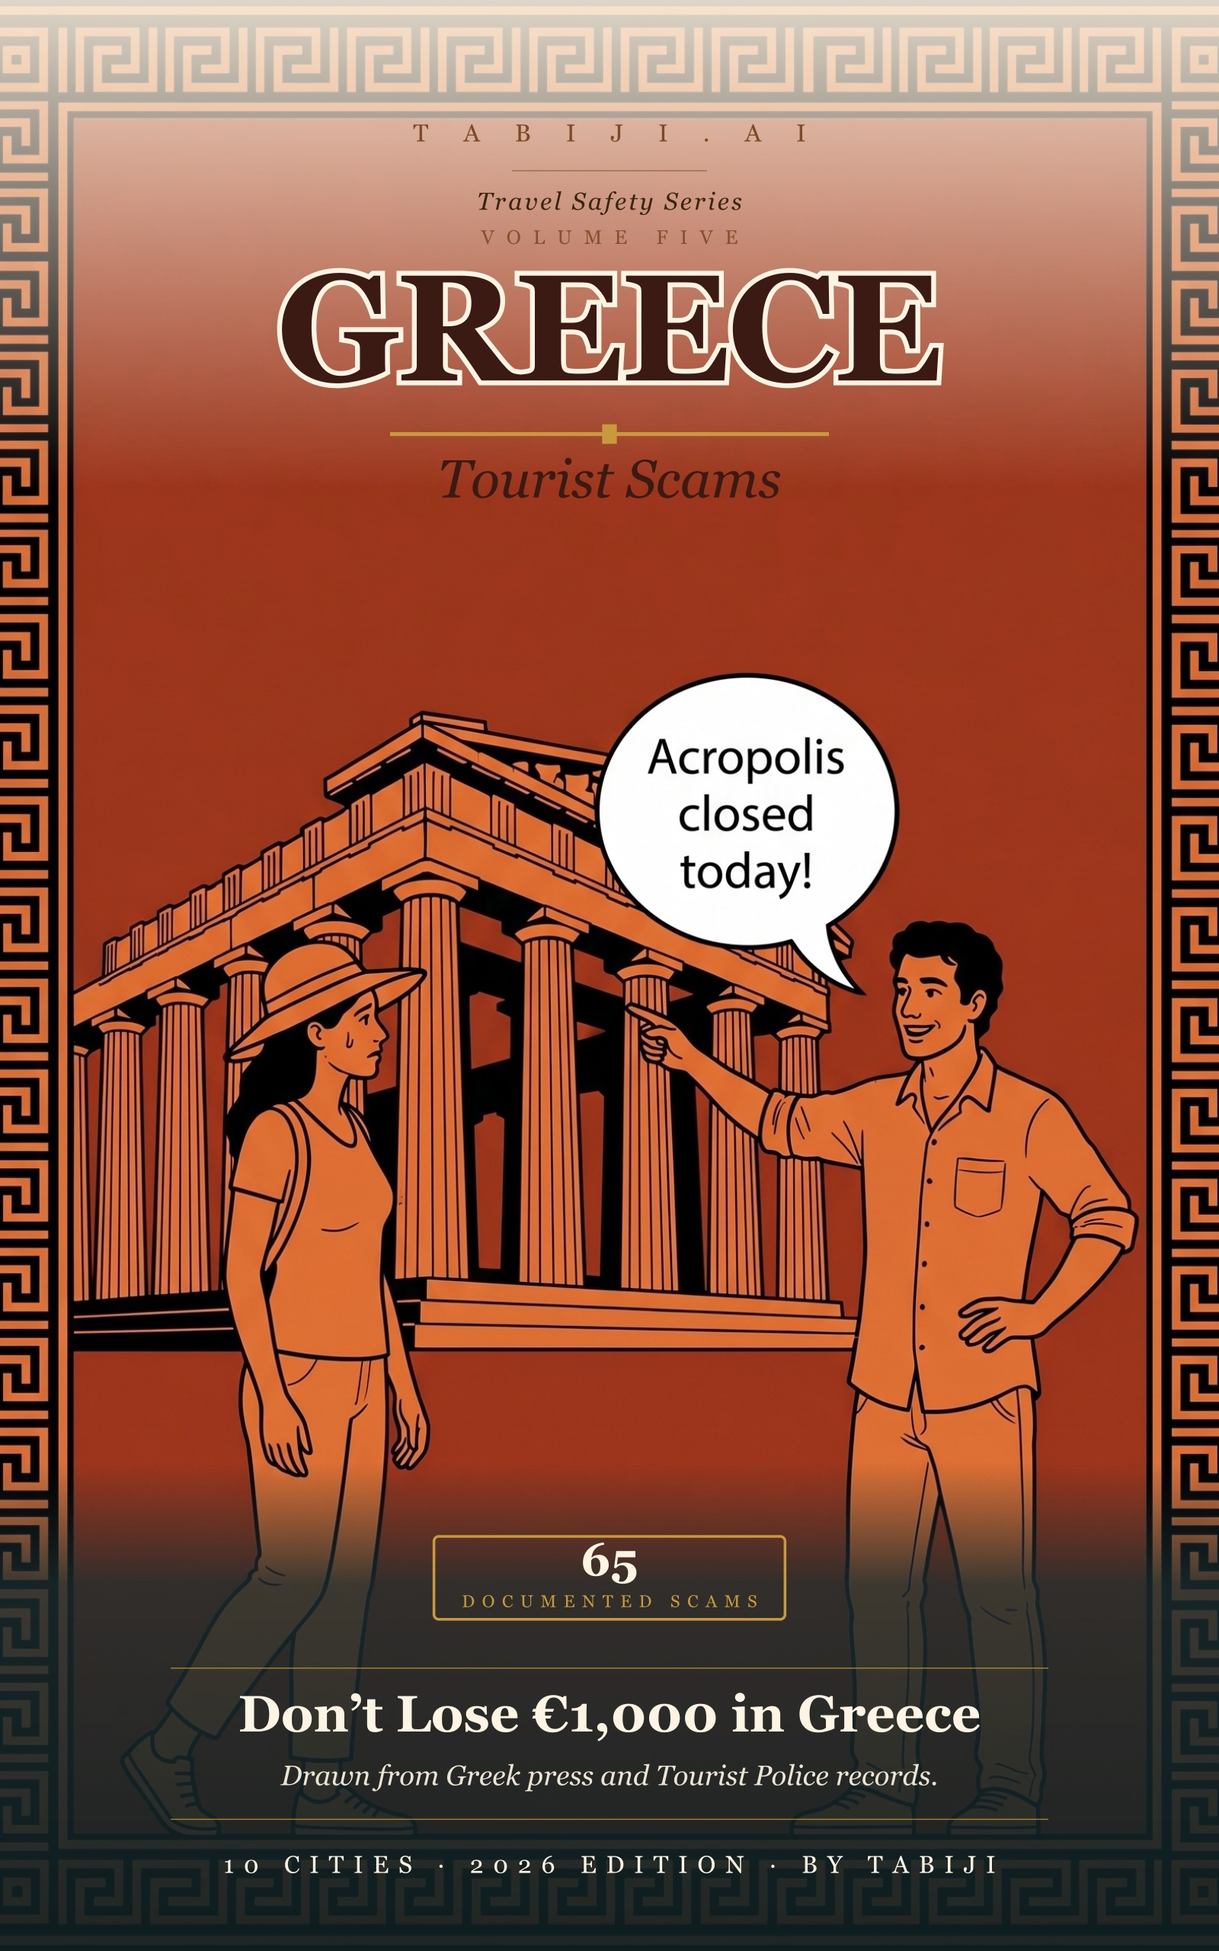
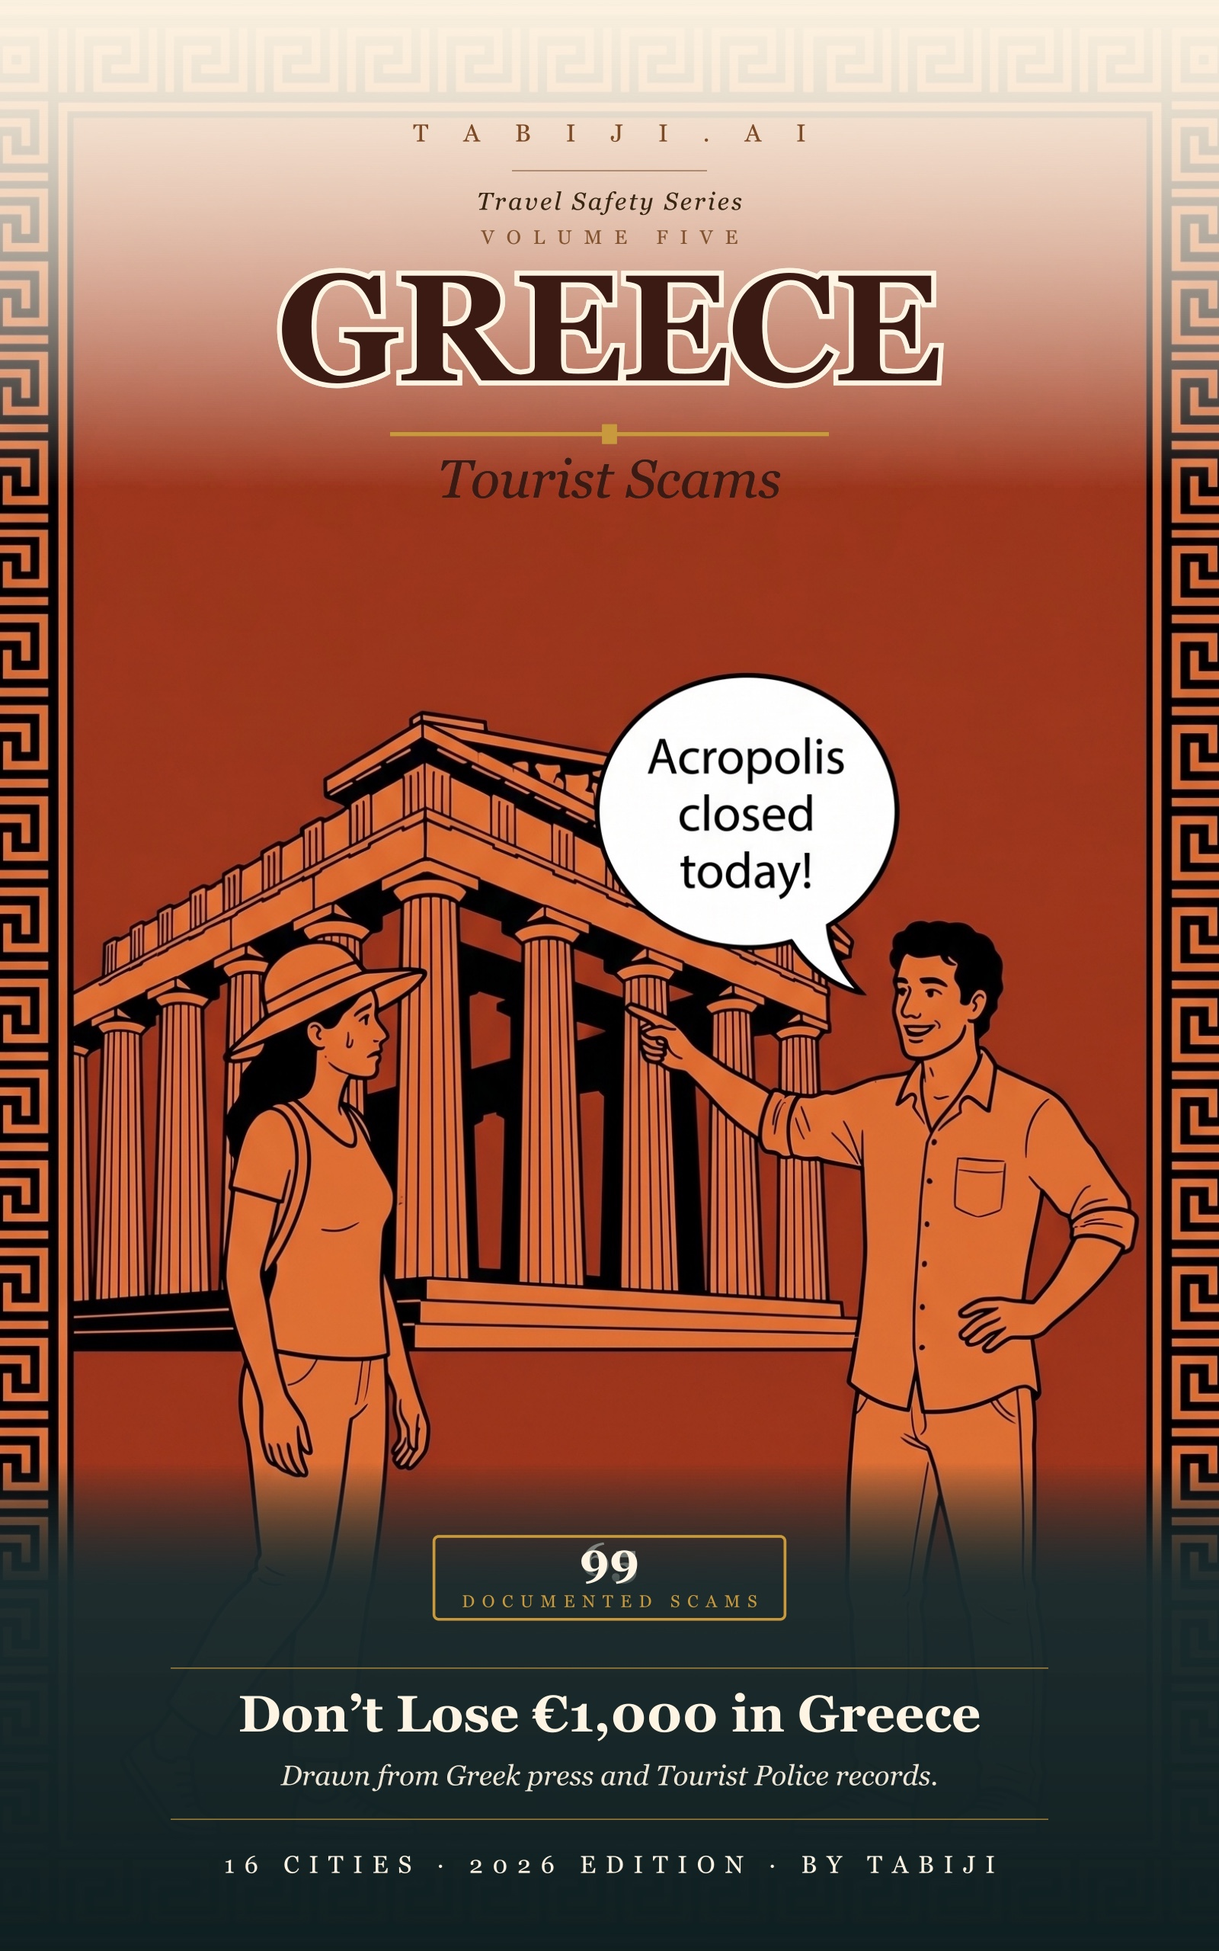
book-greece: rebuild for v2 expansion — 16 cities / 99 scams / 34 new comics
Greece book v2 reflects the full expanded coverage: the original 10 cities
plus the 6 added in this session (Meteora, Delphi, Nafplio, Kos, Zakynthos,
Milos). Now the largest volume in the Tabiji Travel Safety Series.

Content:
- 99 scams documented (was 65) across 16 destinations
- 34 new red-figure pottery comics (Wavespeed/Nano Banana Pro) for the
  6 new cities, generated using the locked Greece style block + canonical
  cast (Margie/Priya/Harry/Marcus). Uploaded to R2 + checked in for the book.
- 6 new chapter-opener city illustrations (mid-century travel-poster style)
- 6 hand-written city intros (mainland archaeology + Cyclades + Dodecanese
  + Ionian) — Meteora day-trip dynamics, Delphi oracle archaeology,
  Nafplio Argolic-base, Kos UK-package strip, Zakynthos Laganas-strip,
  Milos Sarakiniko-driven mainstream Cyclades

Build chain:
- book-greece/config.yaml: 10 → 16 cities, ordered by region (mainland
  archaeology → Cyclades → Northern → Dodecanese → Ionian → Crete)
- book-greece/build.py: CITY_ALT_TEXT extended for 6 new chapter openers
- book-greece/assets/svg/front.svg: cover updated 65 → 99, 10 CITIES → 16 CITIES
- book-greece/assets/cover.jpg: re-rendered from updated SVG
- book-greece/amazon-listing.md: subtitle, description, and 16-city
  enumeration updated
- book-greece/scripts/gen_city_illustrations.py: 6 new city prompts added

Verified output (book-greece/build/greece-scams.epub):
- 99 scams · 57,744 words · 0 TODOs · 95 MB EPUB
[…]

Changed region(s): [[0.0, 0.0, 1.0, 0.2188], [0.0, 0.75, 1.0, 0.875]]

diff --git a/book-greece/scripts/gen_city_illustrations.py b/book-greece/scripts/gen_city_illustrations.py
@@ -125,6 +125,48 @@ CITIES: list[tuple[str, str, str]] = [
         "visible through the ancient doorway, warm golden-hour light.",
         "m",
     ),
+    (
+        "meteora",
+        "The clifftop monasteries of Meteora balanced on dramatic sandstone pinnacles "
+        "at sunrise, deep mist drifting through the valley below, soft warm light on "
+        "the rock spires, the Pindus mountains in the distance.",
+        "f",
+    ),
+    (
+        "delphi",
+        "The Tholos rotunda of Athena Pronaia at Delphi on the slopes of Mount Parnassus "
+        "at golden hour, three reconstructed Doric columns of the circular temple, the "
+        "Pleistos river valley sweeping below, warm honey light on ancient marble.",
+        "m",
+    ),
+    (
+        "nafplio",
+        "The Bourtzi sea-fortress in the Nafplio harbor at dusk, the small Venetian "
+        "island fortress glowing warm against a deep teal Argolic Gulf, the "
+        "Palamidi castle silhouetted on the cliff above the old town.",
+        "f",
+    ),
+    (
+        "kos",
+        "The ancient Asclepieion healing sanctuary on a hillside above Kos, terraced "
+        "ruins of marble columns and stone steps catching golden afternoon light, "
+        "olive groves below, the Aegean Sea and the coast of Bodrum in the distance.",
+        "m",
+    ),
+    (
+        "zakynthos",
+        "Navagio Shipwreck Beach in its cliff-ringed cove at golden hour, towering "
+        "white limestone cliffs framing the curve of bright turquoise water, the "
+        "rusted shipwreck silhouetted on the sand, deep blue Ionian Sea beyond.",
+        "f",
+    ),
+    (
+        "milos",
+        "The white-rock lunar landscape of Sarakiniko on Milos at sunset, smooth "
+        "sculptural volcanic-tuff formations glowing soft pink and gold, the deep "
+        "blue Aegean Sea contrasting with bone-white rock, dramatic Cycladic light.",
+        "m",
+    ),
 ]
 
 

diff --git a/book-greece/build.py b/book-greece/build.py
@@ -47,6 +47,12 @@ CITY_ALT_TEXT: dict[str, str] = {
     "chania": "Chania — the Venetian Lighthouse and Old Harbour at dusk",
     "paros": "Paros — whitewashed houses of Naoussa fishing village at sunset",
     "naxos": "Naxos — the Portara gateway to the Temple of Apollo at sunset",
+    "meteora": "Meteora — clifftop monasteries balanced on sandstone pinnacles at sunrise",
+    "delphi": "Delphi — Tholos rotunda of Athena Pronaia on Mount Parnassus",
+    "nafplio": "Nafplio — the Bourtzi sea-fortress and the harbor below Palamidi",
+    "kos": "Kos — the Asclepieion ancient healing sanctuary on a hillside",
+    "zakynthos": "Zakynthos — Navagio Shipwreck Beach in the cliff-ringed cove",
+    "milos": "Milos — the white-rock lunar landscape of Sarakiniko at sunset",
 }
 
 

diff --git a/book-greece/amazon-listing.md b/book-greece/amazon-listing.md
@@ -15,7 +15,7 @@ Copy-paste directly into KDP.
 
 > **Title:** Greece Tourist Scams 2026
 >
-> **Subtitle:** 65 Real Scams Across Athens, Santorini, Mykonos & 7 More Cities — Drawn from Greek News Reports and Tourist Police Records
+> **Subtitle:** 99 Real Scams Across Athens, Santorini, Mykonos, Meteora & 12 More Cities — Drawn from Greek News Reports and Tourist Police Records
 
 **Title field:** 27 characters. **Subtitle field:** 117 characters. Combined: 146 — under the ~200-char mobile truncation point.
 
@@ -25,7 +25,7 @@ Indexed phrases this locks in for organic search:
 - *athens santorini mykonos* (three flagship destinations in subtitle)
 - *greek phrases*
 
-**Cover status:** `book-greece/assets/svg/front.svg` composites a full-bleed red-figure pottery style background with "GREECE · Tourist Scams" overlay and "10 CITIES · 65 DOCUMENTED SCAMS" on the hook. The pottery-art style matches the four-panel comics inside every scam entry.
+**Cover status:** `book-greece/assets/svg/front.svg` composites a full-bleed red-figure pottery style background with "GREECE · Tourist Scams" overlay and "16 CITIES · 99 DOCUMENTED SCAMS" on the hook. The pottery-art style matches the four-panel comics inside every scam entry.
 
 ---
 
@@ -75,7 +75,7 @@ Character count below: **≈ 3,850** — safely under the 4,000 limit.
 <h4>What's inside this book</h4>
 
 <ul>
-<li><b>65 documented scams</b> across Athens, Santorini, Mykonos, Paros, Naxos, Thessaloniki, Rhodes, Corfu, Heraklion, and Chania — with the exact Greek phrase, said calmly, that ends each one.</li>
+<li><b>99 documented scams</b> across Athens, Delphi, Meteora, Nafplio, Santorini, Mykonos, Paros, Naxos, Milos, Thessaloniki, Rhodes, Kos, Corfu, Zakynthos, Heraklion, and Chania — with the exact Greek phrase, said calmly, that ends each one.</li>
 <li><b>6 universal scam patterns</b> so you can spot the hundreds of variations still being invented.</li>
 <li><b>A red-figure pottery comic for every scam</b> — see the script play out frame-by-frame before you're in it, rendered in ancient Greek vase-painting style.</li>
 <li><b>A print-ready Greek phrase card</b> — English, Greek script, romanized Greek, and simple phonetic pronunciation, with the one phrase (<i>Óchi, efcharistó</i>) that ends most tout interactions instantly.</li>
@@ -168,7 +168,7 @@ For BISAC (used outside KDP):
 | Matchbook | **No** |
 | Kindle Unlimited / KDP Select | **Yes — enrolled for 90 days** |
 
-**KU economics note:** Greece volume is ~245 Kindle pages (larger than Thailand — 65 scams with 65 embedded red-figure pottery comics). A completed KU read-through should net roughly $1.00 at current per-page rates. Greece's niche ("avoid Mykonos restaurant scam," "Santorini taxi overcharge") has high search volume on Kindle, so keyword-driven organic discovery is expected to drive most sales.
+**KU economics note:** Greece volume is ~360 Kindle pages (the largest in the series — 99 scams with 99 embedded red-figure pottery comics, 16 chapters). A completed KU read-through should net roughly $1.40 at current per-page rates. Greece's niche ("avoid Mykonos restaurant scam," "Santorini taxi overcharge," "Meteora day-trip scam") has high search volume on Kindle, so keyword-driven organic discovery is expected to drive most sales.
 
 ---
 

diff --git a/book-greece/manuscript/cities-milos-intro.md b/book-greece/manuscript/cities-milos-intro.md
@@ -1,0 +1,3 @@
+Milos is a small Cycladic island — about 5,400 residents — that became mainstream around 2020, when Sarakiniko's white-rock "lunar landscape" went viral on Instagram. Three sites carry the visitor flow: Sarakiniko on the north coast, the Kleftiko sea caves at the southwest tip (reachable only by boat), and the photogenic Plaka old town above Adamas port. The Hellenic Seaways high-speed ferry from Piraeus brings most visitors in 3 hours; cruise tenders from Adamas pier add a second arrival flow. The scam economy is shaped by the island's small size and even smaller taxi fleet — about seven licensed taxis serve thousands of summer ferry arrivals on peak days.
+
+The risk radiates from three corridors. At Adamas port, the taxi cartel runs supply-driven price inflation on Pollonia and Sarakiniko transfers — the seven-taxi fleet quotes €40–€60 for runs the meter would price at €15–€25, and refuses to operate the meter when demand is high. The Kleftiko boat-tour market is the second concentration: catamaran operators charge €120–€180 for shared day cruises that overcrowd to the legal passenger limit, with "sell-out pressure" at Adamas tour desks pushing same-day bookings at peak prices. ATV and scooter rentals at Adamas run a damage-deposit cycle on the island's narrow unpaved roads to remote beaches (Tsigrado, Firiplaka, Provatas) where minor cosmetic damage is nearly inevitable. Lower-impact but common: Sarakiniko parking-lot cash solicitation by unlicensed "attendants," and Plaka old-town tourist-menu cover-charge padding at the sunset-view restaurants. A safe default: take the Milos Buses (€2 per disembarkation, milosbuses.com) for inter-village transport, book Kleftiko boat tours direct from named operators (Polco Sailing, Naya, Perseas, Volcano, Oneiro) with their published per-day price list, and rent only a small car (not an ATV) if independent transport is needed. Save Tourist Police **171** and the Milos office **+30 22870 23360**.

diff --git a/book-greece/manuscript/cities-zakynthos-intro.md b/book-greece/manuscript/cities-zakynthos-intro.md
@@ -1,0 +1,3 @@
+Zakynthos — also called Zante in UK package marketing — is the southernmost of the Ionian islands, famous for Navagio Shipwreck Beach, the loggerhead-turtle nesting beaches around Laganas Bay, and the Blue Caves at Cape Skinari. Heavy UK package-tourism, German + Italian secondary; Athens-area domestic visitors fill the shoulder season. The scam economy here is documented in detail by the British tabloid press — the Sun, the Mirror, the Daily Mail, and the Metro have all published recurring summer exposés naming specific Laganas-strip clip-joints by name. The Coroner's Office in the UK tracks Zakynthos quad and ATV deaths separately because the rate has been distinctively high for a decade.
+
+The risk radiates from three corridors. The Laganas resort strip runs the most aggressive nightlife scams in Greece outside the Athens-Plaka clip-joints — spiked-cocktail incidents, bootleg-vodka substitution at "VIP table" minimum-consumption bars, and the bracelet-hawker pattern on the main strip where €1 wristbands turn into €30 bills with crew enforcement. Across Laganas, Argassi, and Tsilivi resort strips, scooter and quad rental shops run an aggressive damage-deposit cycle — and unlike Mykonos or Kos where the deposit is the financial damage, here the physical-injury rate is genuinely elevated. The Marathonisi (Turtle Island) boat-tour operators routinely overcrowd vessels and run "guaranteed turtle" markups on what is supposed to be a protected-species observation. A safe default: stick to named, posted-price venues in Laganas (the strip is small enough to walk in twenty minutes), refuse unrequested drinks and never share a poured cocktail you didn't watch mixed, decline all quad and ATV rentals (rent a small car if you must), and verify any Marathonisi boat tour against the Zakynthos Marine Park's published licensed-operator list. Save Tourist Police **171** and the Zakynthos office **+30 26950 27367**.

diff --git a/book-greece/manuscript/cities-kos-intro.md b/book-greece/manuscript/cities-kos-intro.md
@@ -1,0 +1,3 @@
+Kos is the third-largest Dodecanese island, immediately west of Bodrum, Turkey, and one of the heaviest UK + German package-tourism receivers in Greece. Three resort strips dominate the foreign visitor map: Kardamena on the south coast (the British party-tourism epicenter), Tigaki on the north coast, and Mastichari on the northwest where the daily Bodrum ferry departs. Kos Town itself — the old harbor and the Asclepieion archaeological site — is the cultural core. The scam economy is a hybrid of Mediterranean clip-joint patterns and the kind of UK-package-strip exploitation that the Daily Mail and the Mirror have flagged in recurring summer exposés.
+
+The risk radiates from four corridors. At Kos Airport (KGS), the taxi cartel runs per-person flat-rate quotes that triple the legal metered fare for "hotel booking" transfers — the same ride at the meter would cost a quarter as much. On the Kardamena resort strip, scooter and ATV rental shops run a damage-deposit cycle: €200–€400 cash deposits "held" against pre-existing scratches, with returns "discovered" on the lower bumper or under the seat. The Mastichari–Bodrum day-trip ferry has its own variant — touts at the port confuse single-day visitors about Turkish visa requirements, then upsell €60+ "with-visa-assistance" packages over the standard €40 walk-on fare. In Kos Town's old quarter, tourist-menu cover-charge padding at the harbor cafés layers €10–€20 of unrequested bread, water, and "cutlery" onto bills. A safe default: book Kos Airport transfers through your hotel with a written quote, rent only from major airport brands (Avis, Europcar, Hertz, Sixt), confirm the Bodrum ferry visa rules at the official tourist information office before paying any "assistance" markup, and refuse all unrequested cover items at restaurants — Greek consumer law bans them. Save Tourist Police **171** and the Kos office **+30 22420 22444**.

diff --git a/book-greece/manuscript/cities-meteora-intro.md b/book-greece/manuscript/cities-meteora-intro.md
@@ -1,0 +1,3 @@
+Meteora is the cliff-top monastery complex above Kalambaka in central Thessaly — six visitable monasteries balanced on sandstone pinnacles, reached by Greek-Orthodox monks in the fourteenth century and now reached by a steady stream of Athens day-tour buses, rental cars, and KTEL Trikalon coaches. The scam ecosystem is built around two friction points: the Athens-to-Meteora distance (4.5 hours each way by road or KTEL) and the unattended monastery parking lots above Kastraki where rental cars sit for 90 minutes while drivers walk the cliffs. Both attract the same class of opportunist — taxi drivers who tell you your bus left five minutes early and offer to "chase it" for €80 cash, and Athens-area thieves who pop trunks at the Great Meteoron and Varlaam shared lot.
+
+The risk radiates from three corridors. At the Athens end, Larissa Station and Liosion Street tour-bus depots run the missed-bus shakedown and the 14-hour day-trip bait-and-switch — €100 packages that bill themselves as one-day pilgrimages but burn ten of fourteen hours on bus seats and commission rest stops. At the Kalambaka end, the train and bus station forecourts run "private guide" upsells (€60–€90 per person for what the OASTH local bus does for €1.80) and inflated taxi rates from Kalambaka to Kastraki. At the monasteries themselves, the parking-lot break-in is the single most damaging incident — a 2025 traveler thread documented passports and $15,000 in items stolen from a trunk in 40 minutes. A safe default: take the KTEL Trikalon bus from Athens (€32.50 single, €56.50 return), stay overnight in Kalambaka or Kastraki, walk or take the OASTH bus through the monasteries, and carry passports and electronics on your person — never leave anything in the car at any monastery lot, even in the trunk. Save Tourist Police **171** and the Trikala office **+30 24320 78518**.

diff --git a/book-greece/manuscript/cities-delphi-intro.md b/book-greece/manuscript/cities-delphi-intro.md
@@ -1,0 +1,3 @@
+Delphi is the UNESCO oracle of antiquity, perched on the slopes of Mount Parnassus 180 km northwest of Athens. The archaeological site, the museum, and the Tholos at Athena Pronaia draw two distinct visitor flows: KTEL Fokidas bus passengers staying overnight in the village or in Arachova, and Athens-based tour groups doing a fourteen-hour bus-loop day trip. The scam economy targets the second flow with surgical precision — operators bundle the €15.50 KTEL bus seat into €120-plus "guided day tours" that compress three sites into a 90-minute walking loop, with a contracted Arachova lunch stop and a souvenir-shop kickback added on the way back.
+
+The risk radiates from three corridors. At the Liosion Terminal B departure point in Athens, "private transfer" curb dispatchers sell €350-plus rides for what the public bus does for €15.50 single, with the upsell pitch heaviest on travelers heading to early-morning Athens flights after a Delphi day. At the Delphi site forecourt, "official guide" badges materialize at 09:30 most summer mornings — €60–€90 per person for content that hhticket.gr's official audio guide covers for €4. The most damaging single incident is rental-car break-ins at the Delphi site car park and at the Hosios Loukas monastery and Galaxidi-Itea waterfront lay-bys on the way back; thieves work the unattended lots while drivers walk a 90-minute ruins loop. A safe default: take the KTEL Fokidas bus from Athens (€15–€16.50 single per ktelbus.gr), stay one or two nights in Delphi village or Arachova, buy site and museum entry directly at the gate (€12 in summer), and carry passports and prior-trip shopping on your person — never leave anything in the rental car at any sightseeing lay-by. Save Tourist Police **171** and the Delphi office **+30 22650 82222**.

diff --git a/book-greece/manuscript/cities-nafplio-intro.md b/book-greece/manuscript/cities-nafplio-intro.md
@@ -1,0 +1,3 @@
+Nafplio is the first capital of modern Greece — a Venetian-fortified harbor town on the Argolic Gulf, two hours southwest of Athens by KTEL Argolida bus, and the standard base for Mycenae and Epidaurus archaeological day trips. The old town's Plateia Syntagmatos, the Vasileos Konstantinou pedestrian strip, and the Bouboulinas waterfront form the tourist core. The scam economy here is quieter than Athens or Mykonos — but the financial bite per incident is substantial because the targets are well-prepared travelers booking weeks in advance for what they expect to be the safe, gentle, "off-cruise" Greek experience.
+
+The risk radiates from three corridors. At Plateia Syntagmatos, the kiosk-style Euronet ATMs run dynamic-currency-conversion markups at 6–10% above the wholesale euro rate — every other Greek-bank-branded ATM on the same square (Piraeus, Alpha, Eurobank, NBG) charges nothing extra if you select "charged in euros." On the Athens-to-Nafplio transfer route, open-marketplace driver bookings (Booking.com's driver-listing tier) target solo female travelers with sustained personal interrogations, unmarked Corinth Canal "photo stops" at isolated lay-bys, and unsolicited sales pitches for €600 private day tours. At Mycenae and Epidaurus, rental-car break-ins are the single most damaging incident — Athens-area thieves work the unattended archaeological car parks while owners walk the citadel-and-museum loop. A safe default: take the KTEL Argolida bus from Athens Kifissos (€15.70 single, €29 return per ktelargolidas.gr), withdraw cash only at Greek bank-branded ATMs, refuse "charged in your home currency" at every prompt, and carry passports and electronics on your person at every sightseeing stop. Save Tourist Police **171** and the Nafplio office **+30 27520 28131**.
